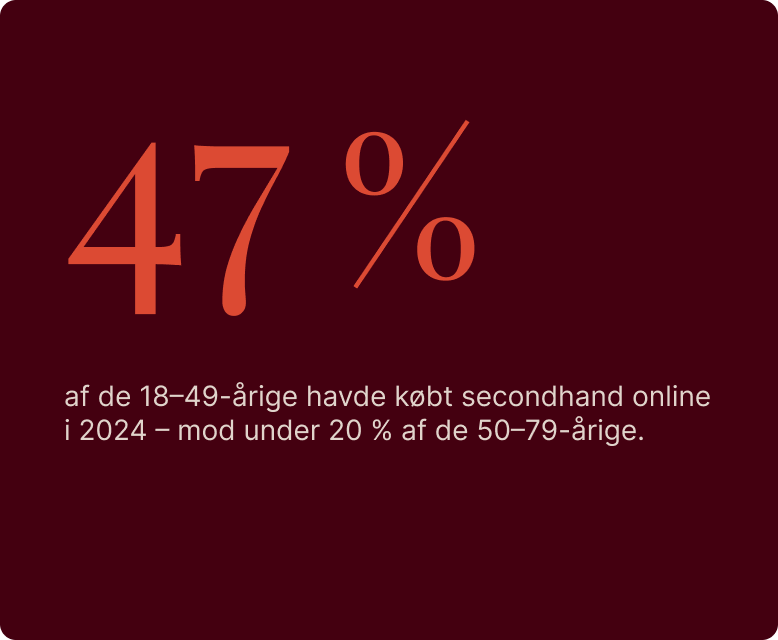
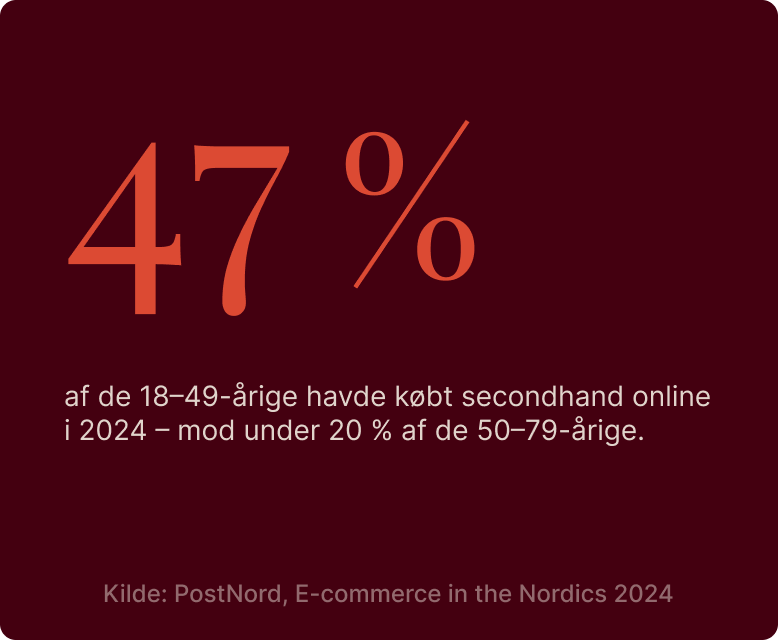
Update HomeFooter styles and data source

Changed region(s): [[0.1234, 0.9062, 0.8638, 0.9375]]

diff --git a/src/components/HomeFooter.css b/src/components/HomeFooter.css
@@ -6,7 +6,9 @@
 
 .home-footer-top {
   display: grid;
-  grid-template-columns: 1.2fr 1fr auto;
+  /* Første kolonne går til midten af skærmen (minus gap), så kontaktteksten
+     starter på navbarens midterlinje. 50% af indholdsbredden + gutter = 50% af skærmen */
+  grid-template-columns: calc(50% - 2rem) 1fr auto;
   align-items: stretch;
   gap: 2rem;
   padding: 5rem var(--page-gutter); /* samme flydende sidemargin som resten af siden */
@@ -33,6 +35,17 @@
   display: flex;
   flex-direction: column;
   justify-content: center;
+}
+
+/* Mailen er et link, men skal ligne resten af teksten – bare med streg under */
+.home-footer-contact a {
+  color: inherit;
+  text-underline-offset: 0.2em;
+  transition: opacity 0.2s ease;
+}
+
+.home-footer-contact a:hover {
+  opacity: 0.7;
 }
 
 .home-footer-socials {

diff --git a/src/components/HomeFooter.jsx b/src/components/HomeFooter.jsx
@@ -6,9 +6,9 @@ export default function HomeFooter() {
       <div className="home-footer-top">
         <div className="home-footer-text">
           <h1>
-            Mangler i
+            Mangler I en
             <br />
-            Praktikant?
+            praktikant?
           </h1>
         </div>
 
@@ -17,7 +17,7 @@ export default function HomeFooter() {
           <p>
             I kan altid fange mig på mail:
             <br />
-            lauralynge@gmail.com
+            <a href="mailto:lauralynge@gmail.com">lauralynge@gmail.com</a>
           </p>
           <p>Lad os skabe noget sammen.</p>
         </div>
